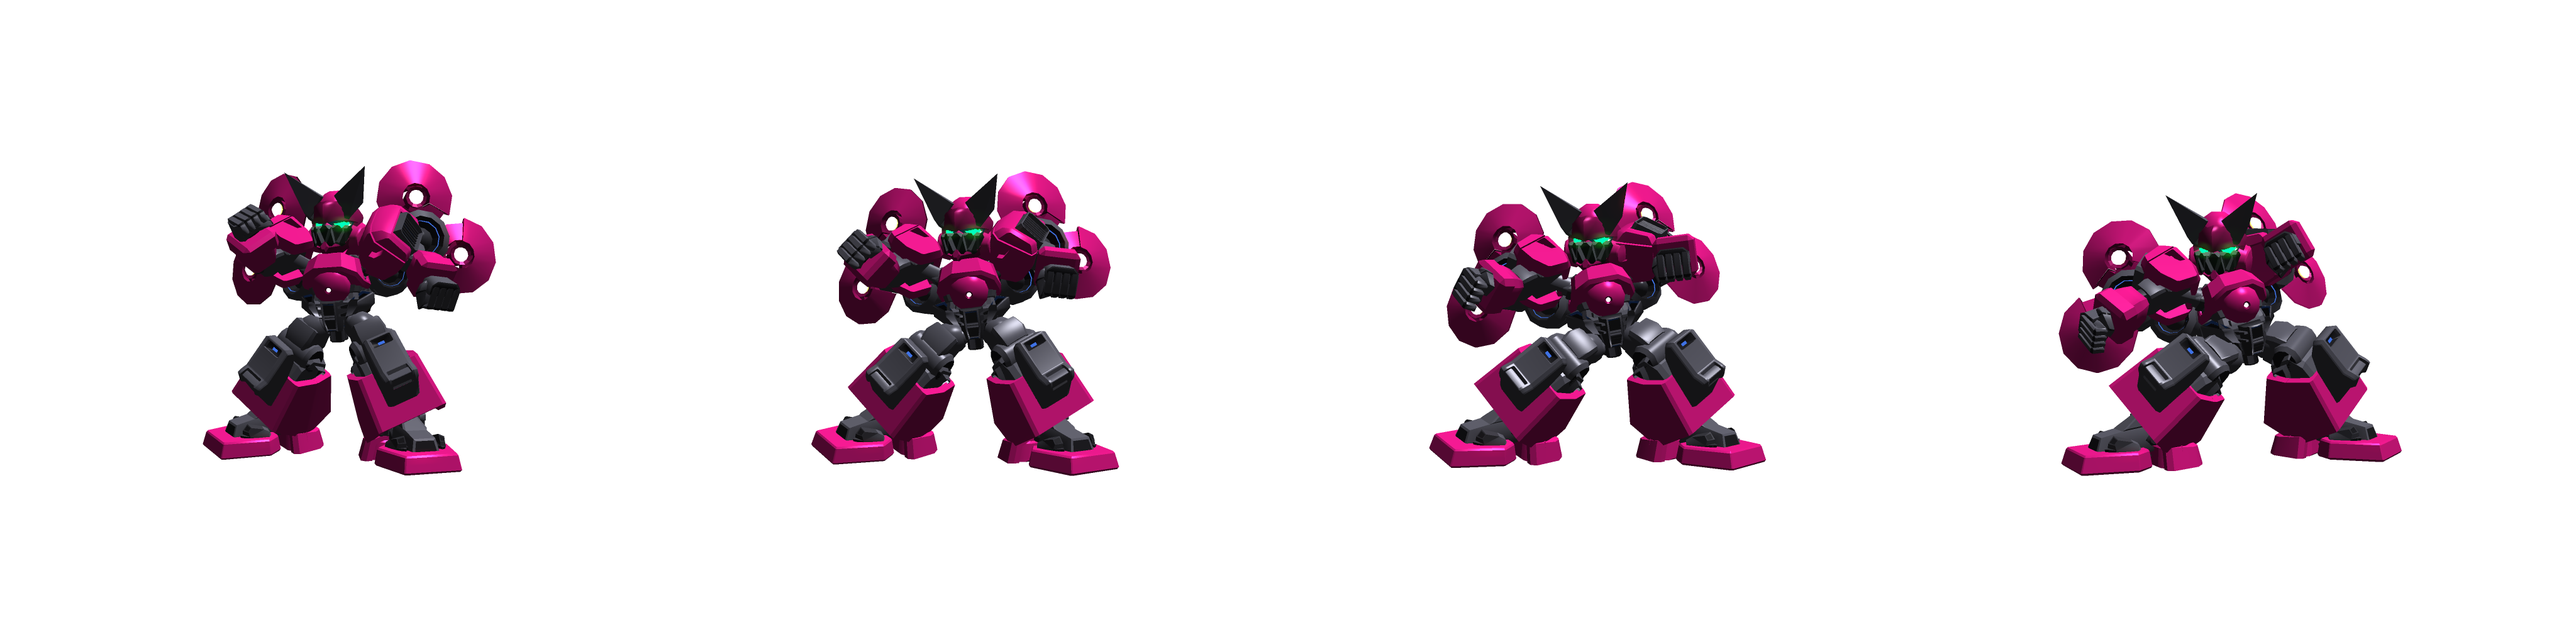
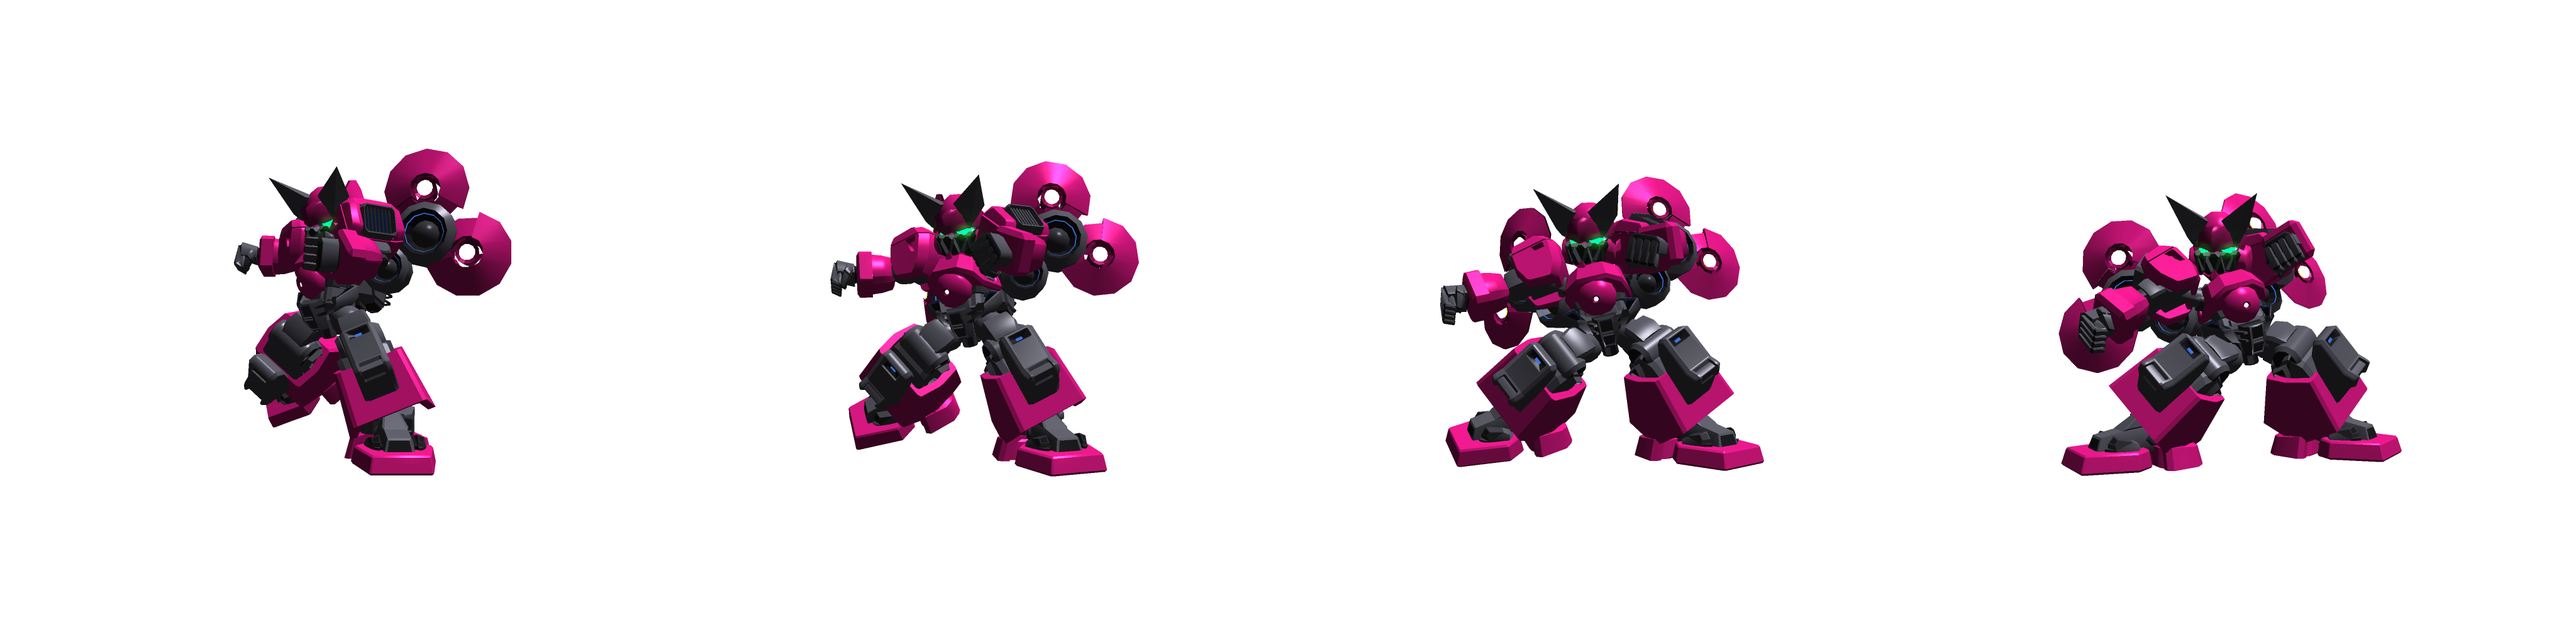
ガッツポーズ画像を調整

Changed region(s): [[0.3125, 0.25, 0.4688, 0.75], [0.0625, 0.2188, 0.2188, 0.75], [0.5312, 0.2812, 0.6875, 0.75]]

diff --git a/src/js/game-object/armdozer/lightning-dozer/animation/turn-start-to-stand.js b/src/js/game-object/armdozer/lightning-dozer/animation/turn-start-to-stand.js
@@ -4,6 +4,7 @@ import type {LightningDozerModel} from "../model/lightning-dozer-model";
 import {Animate} from "../../../../animation/animate";
 import {process} from "../../../../animation/process";
 import {tween} from "../../../../animation/tween";
+import {delay} from "../../../../animation/delay";
 
 /**
  * ターンスタート -> 立ち
@@ -15,11 +16,12 @@ export function turnStartToStand(model: LightningDozerModel): Animate {
   return process(() => {
     model.animation.type = 'GUTS_DOWN';
     model.animation.frame = 1;
-  }).chain(tween(model.animation, t => t.to({frame: 0}, 300)))
+  }).chain(tween(model.animation, t => t.to({frame: 0}, 400)))
     .chain(process(() => {
       model.animation.type = 'GUTS_UP';
       model.animation.frame = 1;
     }))
+    .chain(delay(100))
     .chain(tween(model.animation, t => t.to({frame: 0}, 300)))
     .chain(process(() => {
       model.animation.type = 'STAND';

diff --git a/src/js/game-object/armdozer/lightning-dozer/animation/turn-start.js b/src/js/game-object/armdozer/lightning-dozer/animation/turn-start.js
@@ -17,10 +17,10 @@ export function turnStart(model: LightningDozerModel): Animate {
     model.animation.type = 'GUTS_UP';
     model.animation.frame = 0;
   }).chain(tween(model.animation, t => t.to({frame: 1}, 300)))
-    .chain(delay(100))
+    .chain(delay(300))
     .chain(process(() => {
       model.animation.type = 'GUTS_DOWN';
       model.animation.frame = 0;
     }))
-    .chain(tween(model.animation, t => t.to({frame: 1}, 300)));
+    .chain(tween(model.animation, t => t.to({frame: 1}, 200)));
 }

diff --git a/src/js/battle-room/dummy-battle-room.js b/src/js/battle-room/dummy-battle-room.js
@@ -17,6 +17,7 @@ export function createDummyBattleRoom(): BattleRoom {
     playerId: 'test01',
     armdozer: ArmDozers.find(v => v.id === ArmDozerIdList.SHIN_BRAVER) || ArmDozers[0]
   };
+  player.armdozer.speed = 1000; // TODO 開発が完了したら戻す
   //const npc = new NeoLandozerNPC();
   const npc = new LightningDozerNPC();
   return new OfflineBattleRoom(player, npc);
